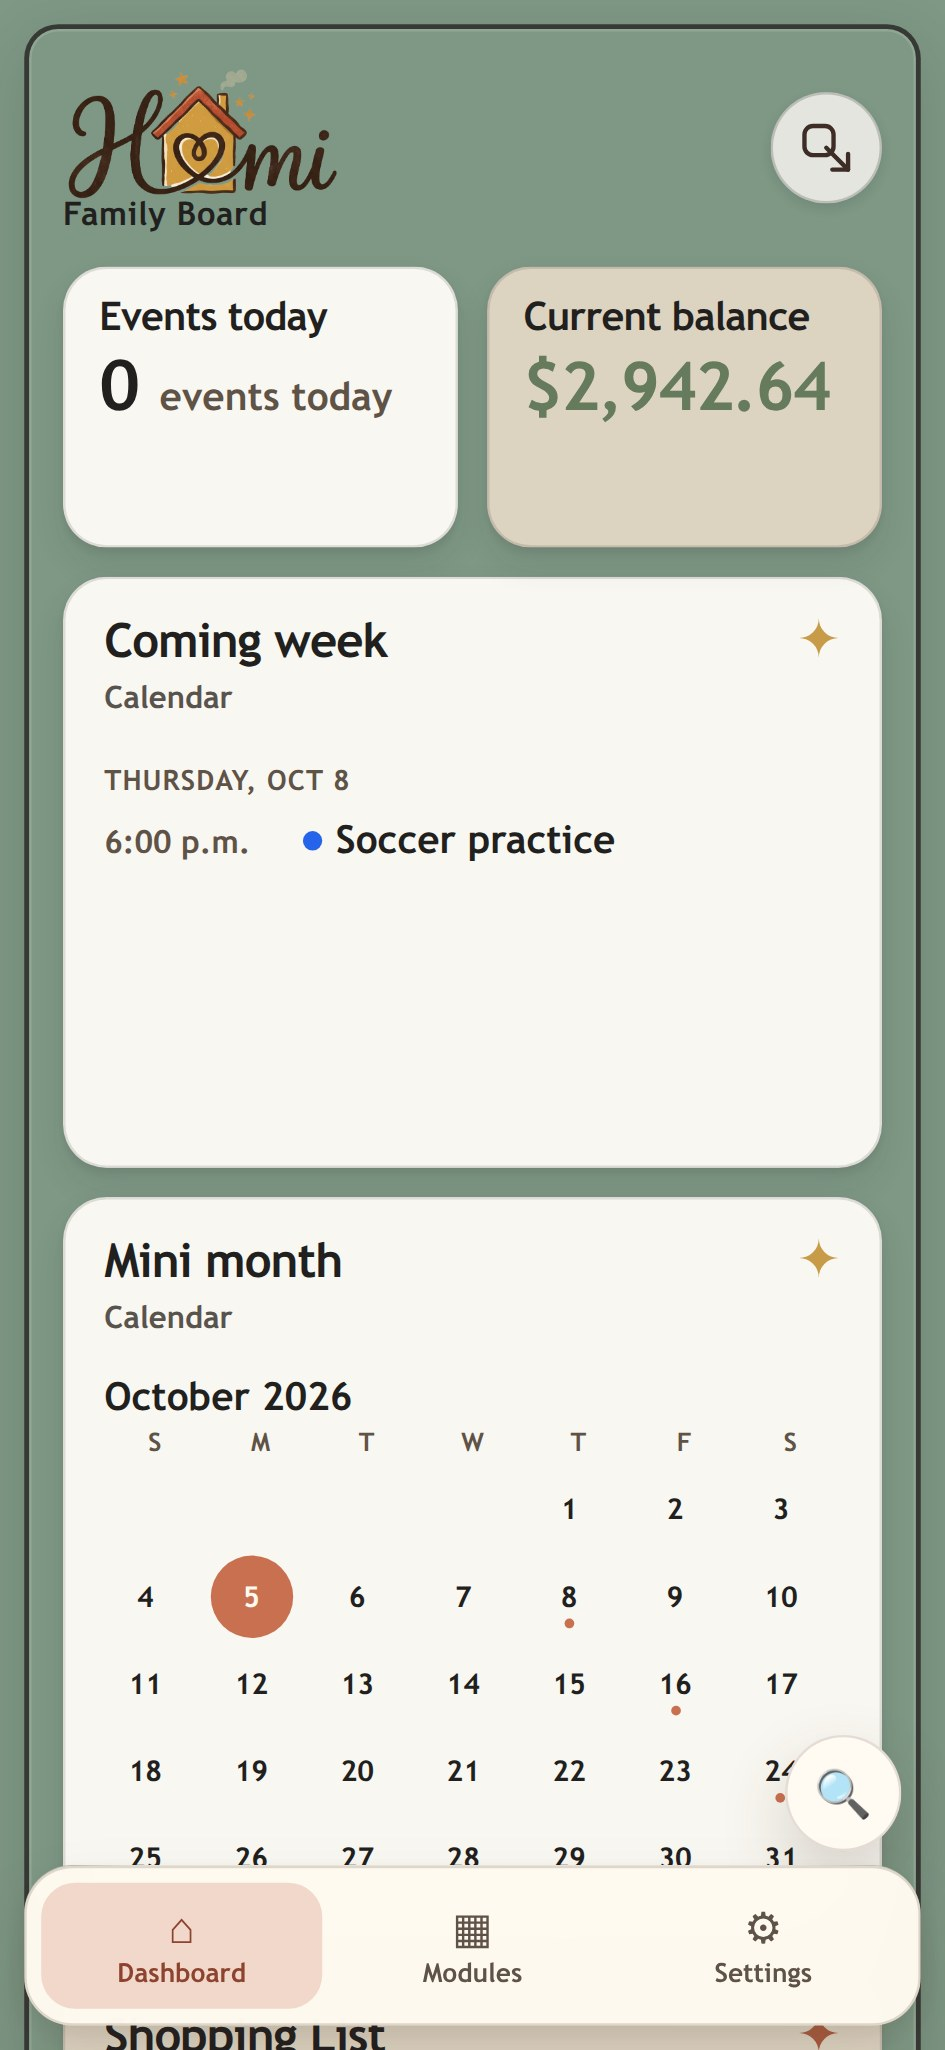
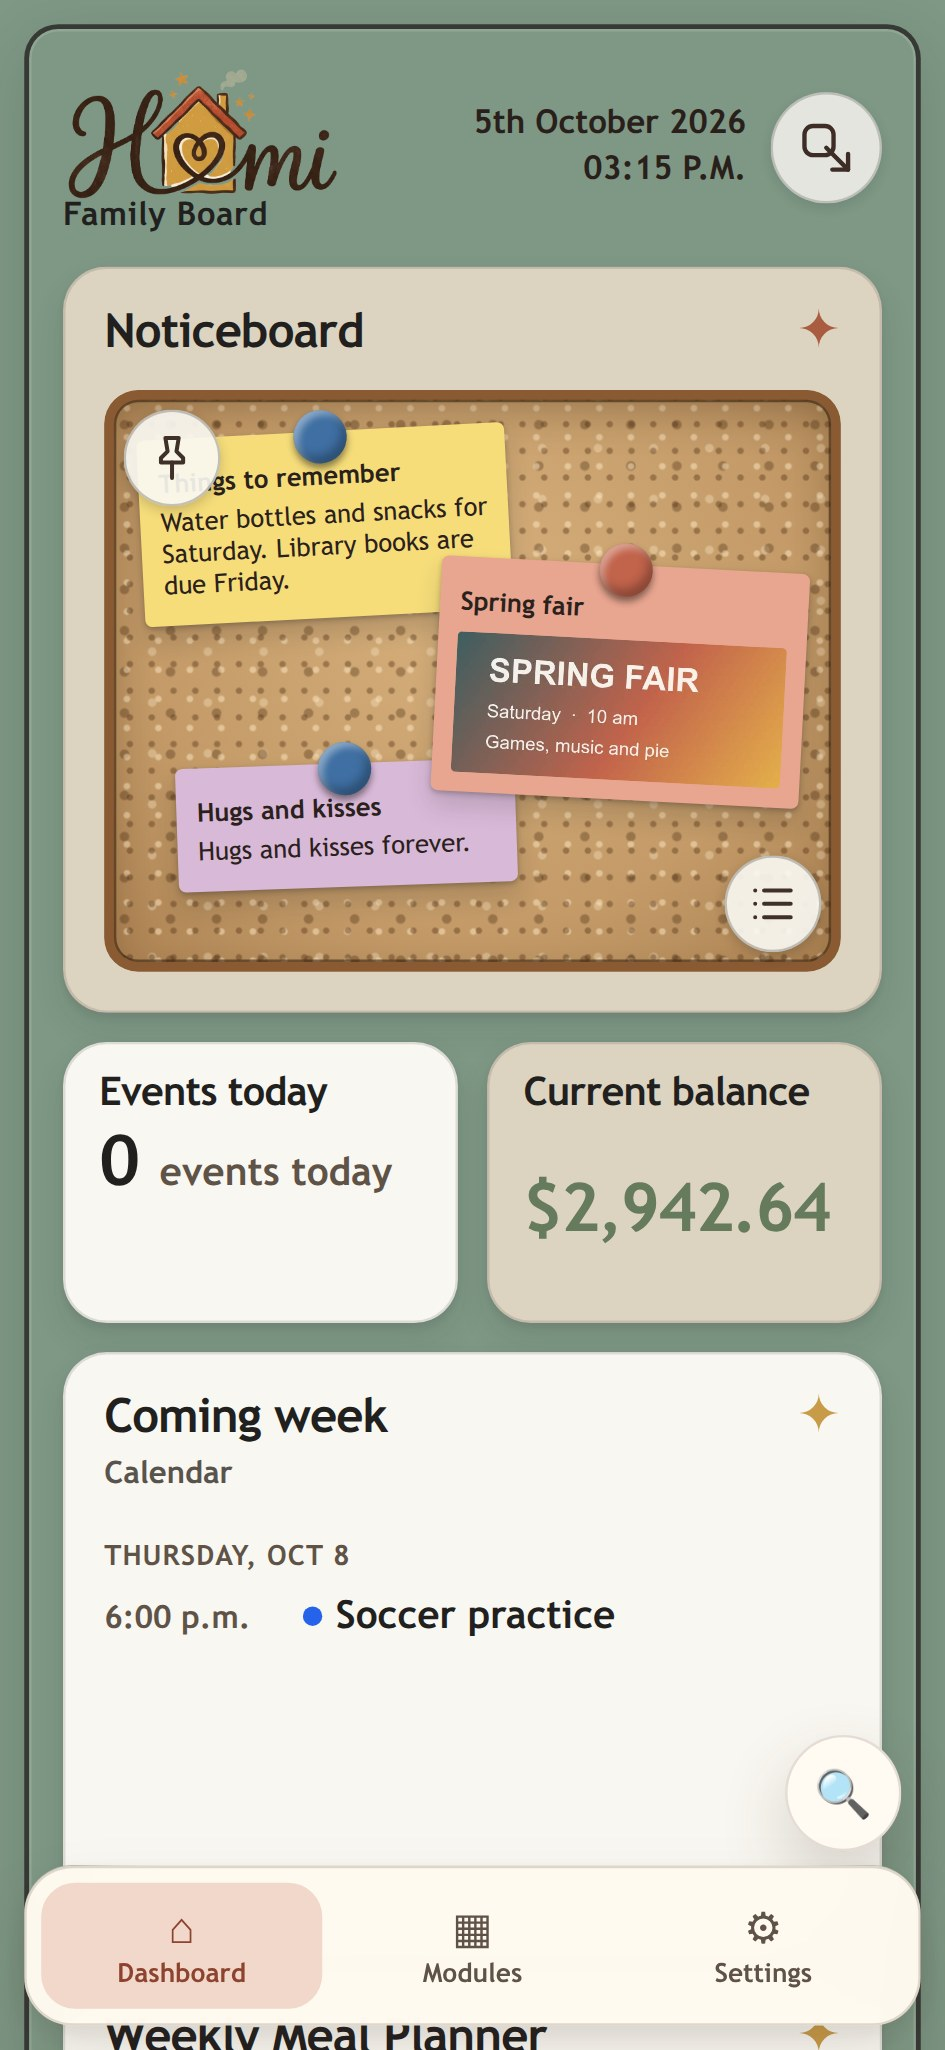
Homi 1.3.0: date and time on the Dashboard; README screenshots retaken with the clock

diff --git a/apps/web/src/clock.ts b/apps/web/src/clock.ts
@@ -1,0 +1,50 @@
+// Date and time shown in the Family Board header, in the household's locale and
+// time zone. English follows the board's own style ("5th October 2026" and
+// "03:15 P.M."); other locales use the browser's own long date and short time.
+
+function ordinal(day: number): string {
+  const teen = day % 100;
+  if (teen >= 11 && teen <= 13) return `${day}th`;
+  switch (day % 10) {
+    case 1: return `${day}st`;
+    case 2: return `${day}nd`;
+    case 3: return `${day}rd`;
+    default: return `${day}th`;
+  }
+}
+
+function isEnglish(locale: string): boolean {
+  return locale === "" || /^en(?:[-_]|$)/i.test(locale);
+}
+
+function parts(date: Date, locale: string, timeZone: string, options: Intl.DateTimeFormatOptions) {
+  return new Intl.DateTimeFormat(locale || "en", { timeZone, ...options }).formatToParts(date);
+}
+
+export interface BoardClock {
+  readonly date: string;
+  readonly time: string;
+  // YYYY-MM-DDTHH:mm in the household time zone, for the <time> elements.
+  readonly dateTime: string;
+}
+
+export function boardClock(now: Date, locale: string, timeZone: string): BoardClock {
+  const numeric = parts(now, "en-CA", timeZone, { year: "numeric", month: "2-digit", day: "2-digit", hour: "2-digit", minute: "2-digit", hourCycle: "h23" });
+  const get = (type: string) => numeric.find((p) => p.type === type)?.value ?? "00";
+  const hour24 = Number(get("hour")) % 24;
+  const dateTime = `${get("year")}-${get("month")}-${get("day")}T${String(hour24).padStart(2, "0")}:${get("minute")}`;
+  if (isEnglish(locale)) {
+    const month = parts(now, "en", timeZone, { month: "long" }).find((p) => p.type === "month")?.value ?? "";
+    const hour12 = hour24 % 12 === 0 ? 12 : hour24 % 12;
+    return {
+      date: `${ordinal(Number(get("day")))} ${month} ${get("year")}`,
+      time: `${String(hour12).padStart(2, "0")}:${get("minute")} ${hour24 < 12 ? "A.M." : "P.M."}`,
+      dateTime,
+    };
+  }
+  return {
+    date: new Intl.DateTimeFormat(locale, { timeZone, dateStyle: "long" }).format(now),
+    time: new Intl.DateTimeFormat(locale, { timeZone, timeStyle: "short" }).format(now),
+    dateTime,
+  };
+}

diff --git a/apps/web/src/clock.test.ts b/apps/web/src/clock.test.ts
@@ -1,0 +1,35 @@
+import assert from "node:assert/strict";
+import test from "node:test";
+import { boardClock } from "./clock.js";
+
+const at = (iso: string) => new Date(iso);
+
+test("English shows an ordinal day, the month and a padded 12-hour time with dots", () => {
+  const clock = boardClock(at("2026-10-05T19:15:00Z"), "en-CA", "America/Toronto");
+  assert.equal(clock.date, "5th October 2026");
+  assert.equal(clock.time, "03:15 P.M.");
+  assert.equal(clock.dateTime, "2026-10-05T15:15");
+});
+
+test("ordinals handle 1st, 2nd, 3rd, the teens and 21st to 23rd", () => {
+  const day = (n: number) => boardClock(at(`2026-10-${String(n).padStart(2, "0")}T12:00:00Z`), "en", "UTC").date.split(" ")[0];
+  assert.deepEqual([1, 2, 3, 4, 11, 12, 13, 21, 22, 23, 31].map(day), ["1st", "2nd", "3rd", "4th", "11th", "12th", "13th", "21st", "22nd", "23rd", "31st"]);
+});
+
+test("midnight is 12:00 A.M. and noon is 12:00 P.M.", () => {
+  assert.equal(boardClock(at("2026-03-01T00:05:00Z"), "en", "UTC").time, "12:05 A.M.");
+  assert.equal(boardClock(at("2026-03-01T12:30:00Z"), "en", "UTC").time, "12:30 P.M.");
+});
+
+test("the household time zone decides the date and the hour", () => {
+  const instant = at("2026-10-06T02:30:00Z");
+  assert.equal(boardClock(instant, "en", "America/Toronto").date, "5th October 2026");
+  assert.equal(boardClock(instant, "en", "Pacific/Auckland").date, "6th October 2026");
+  assert.equal(boardClock(instant, "en", "Pacific/Auckland").time, "03:30 P.M.");
+});
+
+test("other locales use the browser's own long date and short time", () => {
+  const clock = boardClock(at("2026-10-05T19:15:00Z"), "fr-CA", "America/Toronto");
+  assert.match(clock.date, /5 octobre 2026/);
+  assert.match(clock.time, /15\s?[:h]\s?15/);
+});

diff --git a/apps/web/src/platform-shell.css b/apps/web/src/platform-shell.css
@@ -703,13 +703,65 @@
   background: rgba(249, 247, 241, 0.2);
 }
 
+.homi-family-board__clock {
+  margin-left: auto;
+  display: flex;
+  align-items: baseline;
+  gap: 18px;
+  color: #2a1f1b;
+  white-space: nowrap;
+}
+
+.homi-family-board__clock-date {
+  font-size: clamp(0.95rem, 1.6vw, 1.45rem);
+  font-weight: 700;
+}
+
+.homi-family-board__clock-time {
+  font-size: clamp(1.9rem, 4.6vw, 4.4rem);
+  font-weight: 800;
+  line-height: 1;
+  font-variant-numeric: tabular-nums;
+}
+
+@media (max-width: 640px) {
+  .homi-family-board__clock {
+    flex-direction: column;
+    align-items: flex-end;
+    gap: 2px;
+  }
+
+  /* On a phone the time is the same size as the date, so it never crowds the logo. */
+  .homi-family-board__header {
+    gap: 10px;
+  }
+
+  .homi-family-board__brand {
+    min-width: 0;
+  }
+
+  .homi-family-board__clock-date,
+  .homi-family-board__clock-time {
+    font-size: 0.85rem;
+    font-weight: 700;
+    line-height: 1.25;
+  }
+}
+
+@media (max-width: 360px) {
+  .homi-family-board__clock-date,
+  .homi-family-board__clock-time {
+    font-size: 0.74rem;
+  }
+}
+
 .homi-family-board__arrange {
   display: flex;
   flex-wrap: wrap;
   align-items: center;
   justify-content: flex-end;
   gap: 8px;
-  margin-left: auto;
+  margin-left: 0;
 }
 
 .homi-family-board__arrange-hint {

diff --git a/apps/web/src/FamilyBoardClock.tsx b/apps/web/src/FamilyBoardClock.tsx
@@ -1,0 +1,22 @@
+import { useEffect, useState } from "react";
+import { boardClock, type BoardClock } from "./clock.js";
+
+// Ticks every second but only re-renders when the shown minute or day changes.
+export function FamilyBoardClock({ locale, timeZone }: { locale: string; timeZone: string }) {
+  const [clock, setClock] = useState<BoardClock>(() => boardClock(new Date(), locale, timeZone));
+  useEffect(() => {
+    const tick = () => setClock((previous) => {
+      const next = boardClock(new Date(), locale, timeZone);
+      return next.dateTime === previous.dateTime && next.date === previous.date && next.time === previous.time ? previous : next;
+    });
+    tick();
+    const id = window.setInterval(tick, 1000);
+    return () => window.clearInterval(id);
+  }, [locale, timeZone]);
+  return (
+    <div className="homi-family-board__clock">
+      <time className="homi-family-board__clock-date" dateTime={clock.dateTime.slice(0, 10)}>{clock.date}</time>
+      <time className="homi-family-board__clock-time" dateTime={clock.dateTime}>{clock.time}</time>
+    </div>
+  );
+}

diff --git a/apps/web/src/App.tsx b/apps/web/src/App.tsx
@@ -63,6 +63,7 @@ import type {
   HomiWebModuleSearchResult,
 } from "@homi/module-sdk";
 import { GlobalSearch, type GlobalSearchSource } from "./GlobalSearch.js";
+import { FamilyBoardClock } from "./FamilyBoardClock.js";
 import {
   cacheMemberModulePreferences,
   fetchMemberModulePreferences,
@@ -1559,6 +1560,10 @@ export function App() {
                   Family Board
                 </span>
               </div>
+              <FamilyBoardClock
+                locale={displayLocale || "en"}
+                timeZone={displayTimeZone || "UTC"}
+              />
               {familyBoardContributions.length > 0 && (
                 <div className="homi-family-board__arrange">
                   {arrangingBoard && (

diff --git a/CHANGELOG.md b/CHANGELOG.md
@@ -2,6 +2,17 @@
 
 All notable changes to Homi are recorded here, newest first. Homi follows semantic versioning from 1.0, and entries before 1.0 are identified by date; each module is versioned independently and every module release is published with a signed, verified entry in the [module directory](docs/MODULE_DIRECTORY.md). Known limitations are in [the release notes](docs/RELEASE_NOTES.md#known-limitations).
 
+## 1.3.0 — 2026-10-05
+
+### Core (web app)
+- **Date and time on the Dashboard.** The Family Board header shows the date and a large clock at the top right, beside the search control: for example "5th October 2026" and "03:15 P.M." They follow the household's time zone and language (English uses the board's own style; other languages use the browser's long date and short time), update every minute and roll over at midnight. On a phone the time is the same size as the date and stays clear of the logo, down to the narrowest screens. No Core service, API or module change.
+
+### Documentation
+- The README screenshots were retaken from invented data on an isolated stack: the widescreen Dashboard now shows the clock, the cork Noticeboard and the Meal Planner, and the phone screenshot shows the clock with the Noticeboard first, as on a real phone.
+
+### Testing
+- Clock browser acceptance (`apps/web/qa/clock-acceptance.mjs`: household time zone, minute update, midnight roll-over, placement with a clear gap from the logo and equal date and time sizes on phones from 1440 down to 320 px) and unit tests for the formatting. The accessibility (168 screens), board-layout and universal-search acceptances pass unchanged.
+
 ## 2026-10-05 (Meal Planner)
 
 ### Modules

diff --git a/docs/RELEASE_NOTES.md b/docs/RELEASE_NOTES.md
@@ -8,6 +8,7 @@ Status: Homi 1.0, released 2026-10-02. Homi runs in everyday household use. From
 - Calendar 0.6.21, Chequebook 0.1.27, and Shopping List 0.3.2, whose Dashboard cards declare sizes and adapt to the size each member chooses: today's events with times, the coming week by day, a mini month with event dots, bold balance and spending figures, and the shopping list or counts by store.
 - Noticeboard 0.1.1 (1.2): a shared board of pinned notes, photos and lists. The Dashboard card scales to the card, notices can be arranged and overlapped, anyone can unpin a notice (it stays in the module) or pin it back, and only the author or an administrator can delete. Add notices from the card's tack or the module's `+`; Search finds them.
 - Meal Planner 0.1.0: one shared household meal plan with a Dashboard card of coloured day rows (any days, any colours), repeats, copy week, meal ideas, Search, and a recipe link through the `recipes.lookup.v1` broker capability for the future Recipes module.
+- The Family Board header shows the date and a large clock in the household's time zone and language (1.3).
 - Public `@homi/module-sdk`, `@homi/ui`, and the starter module template.
 - Signed module-directory verification and administrator-only install, update, disable, uninstall, reinstall, and rollback.
 - Per-household module enablement, and per-member Dashboard visibility, order, and card style (for example Shopping's list or counts by store), chosen on the Modules screen.
